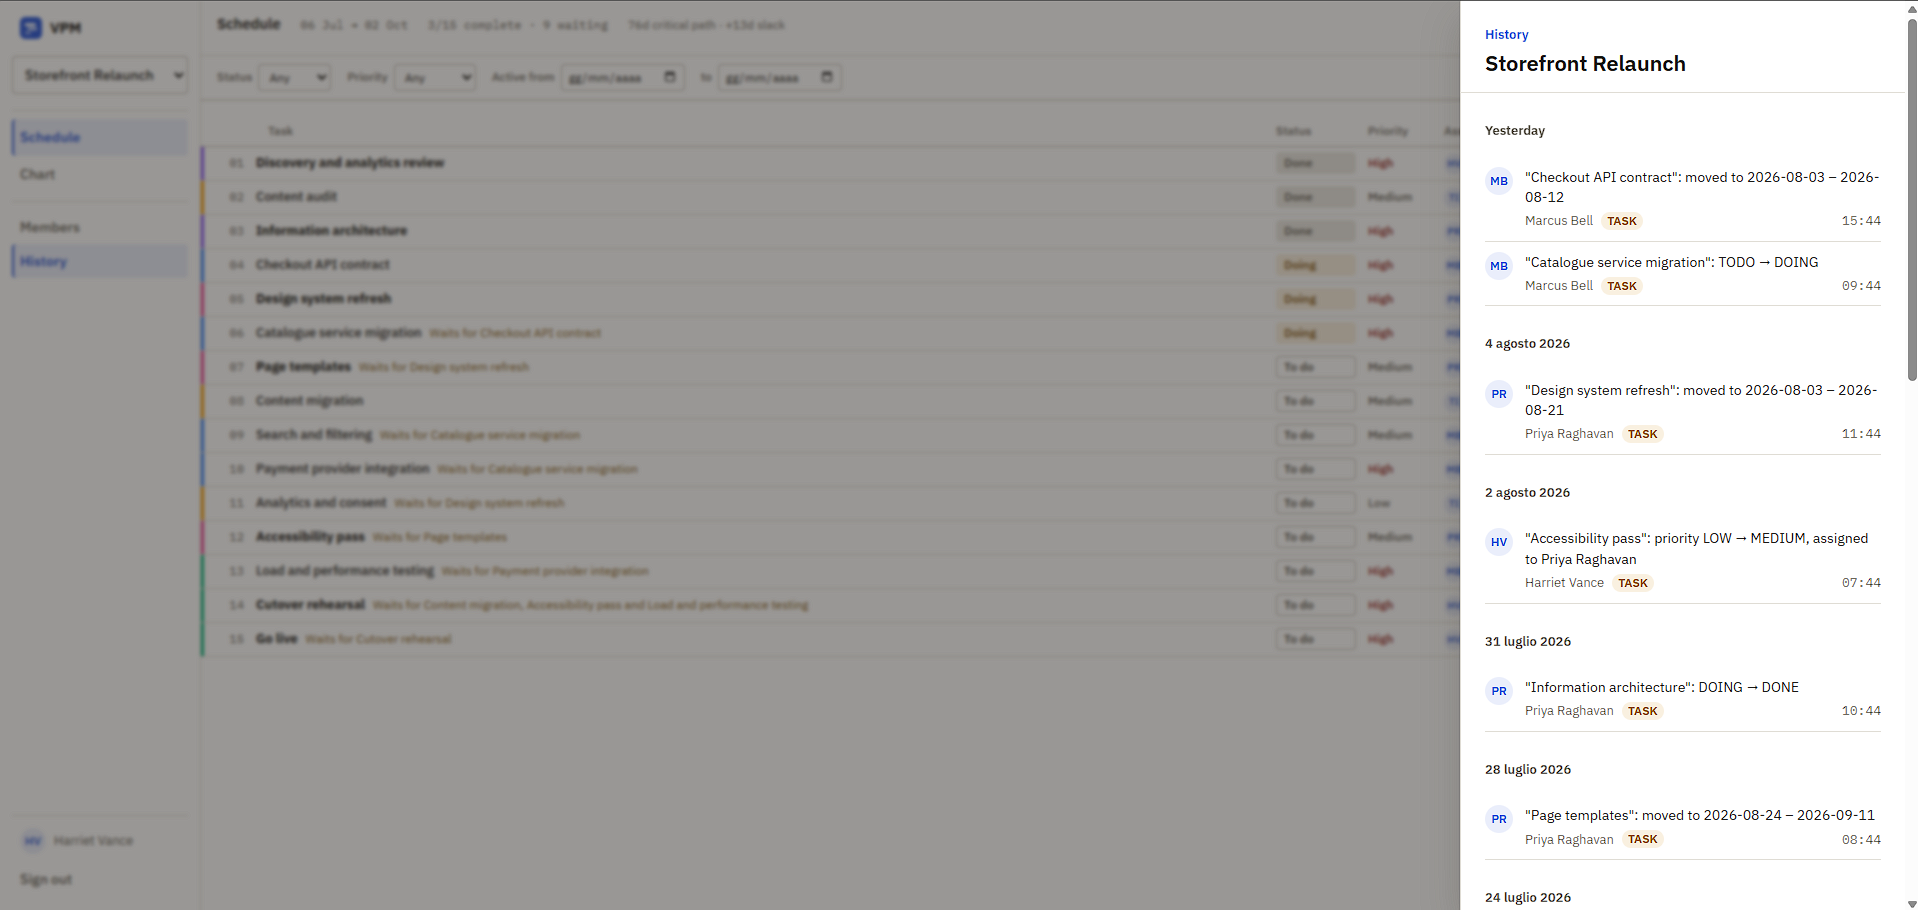
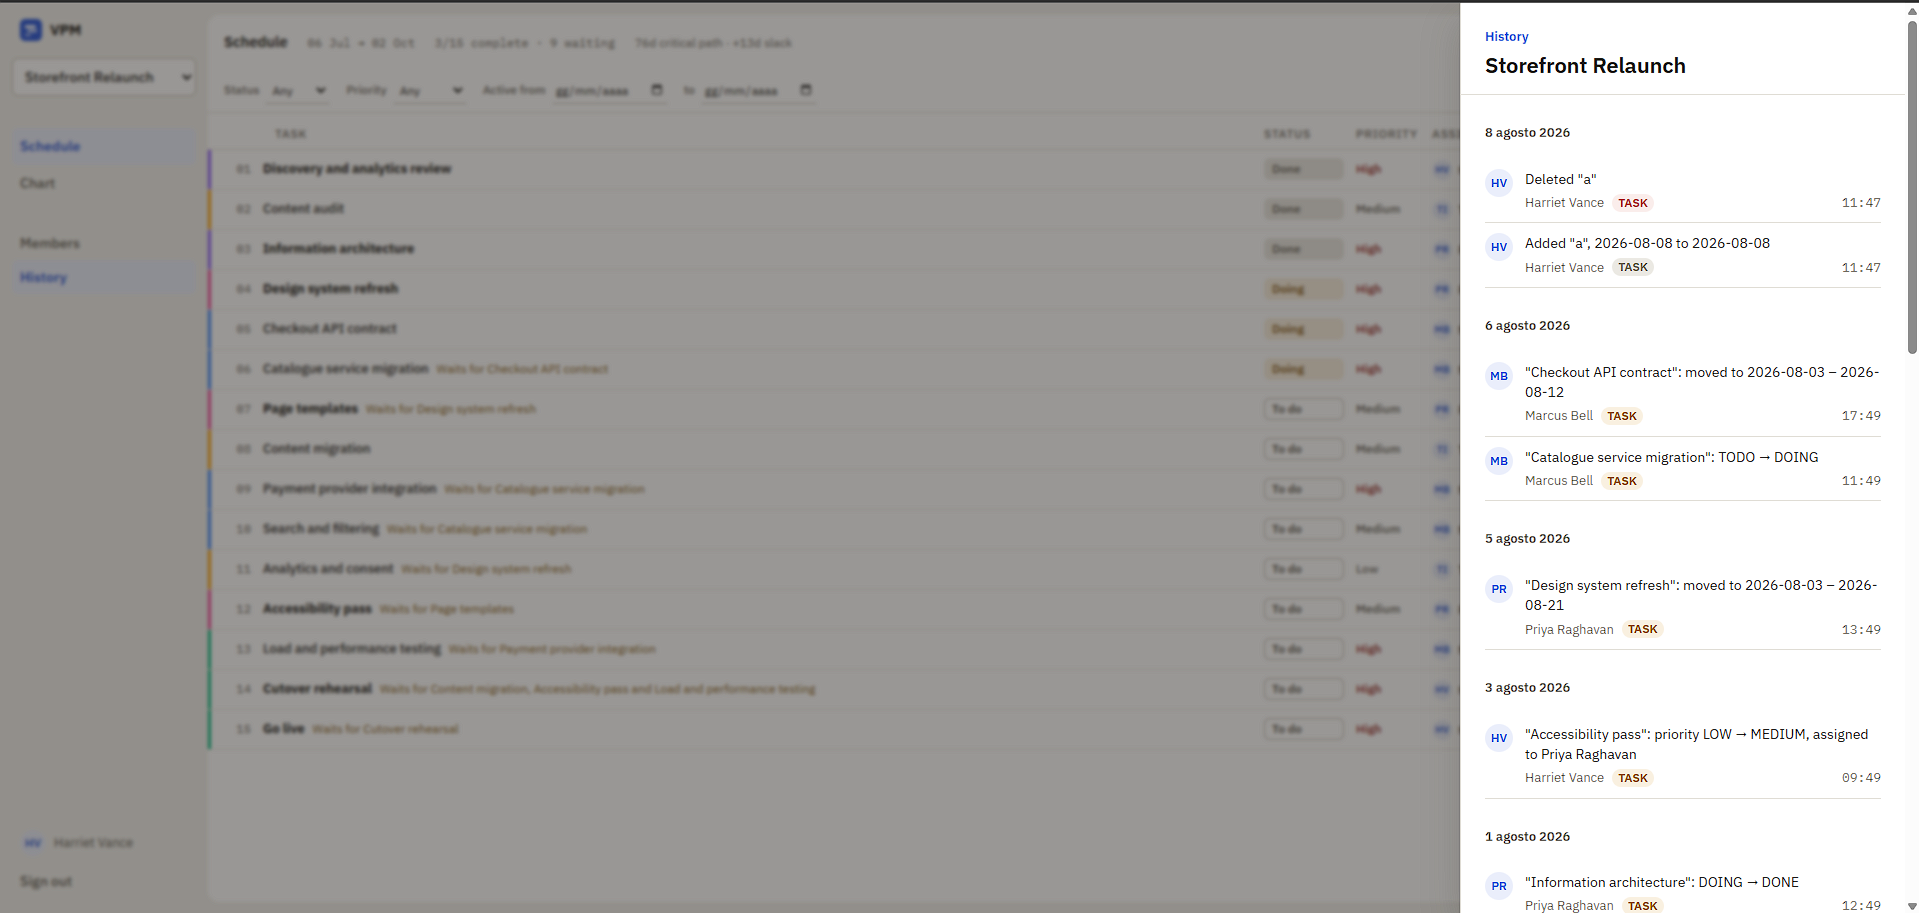
restyling

diff --git a/frontend/src/app/features/gantt/gantt-chart/gantt-chart.scss b/frontend/src/app/features/gantt/gantt-chart/gantt-chart.scss
@@ -12,7 +12,9 @@
   flex: 1;
   min-height: 0;
   background: var(--surface);
-  border-top: 1px solid var(--border);
+  // No rule on top. The filter strip below the toolbar already ends in one,
+  // and two lines a few pixels apart read as a mistake rather than as two
+  // divisions.
 
   /**
    * One element scrolls, in both directions, and three of its four cells
@@ -53,12 +55,22 @@
 
     height: var(--head-h);
     padding: 0 calc(var(--u) * 3) calc(var(--u) * 1.5);
+
+    // Set as labels rather than as small text. Sentence case at the row
+    // font's weight made the head read as a sixteenth row that happened to
+    // say "Task"; letter-spaced capitals are a different kind of thing on
+    // the page, which is what a column head is.
     font-size: var(--fs-xs);
     font-weight: 500;
+    letter-spacing: 0.06em;
+    text-transform: uppercase;
     color: var(--text-3);
     background: var(--surface);
-    border-right: 1px solid var(--border-2);
-    border-bottom: 1px solid var(--border-2);
+    // The frozen edge keeps its rule, because it marks the thing that does
+    // not move. It drops a weight: --border-2 is the weight of an input's
+    // outline, and this is a division inside one surface.
+    border-right: 1px solid var(--border);
+    border-bottom: 1px solid var(--border);
   }
 
   &__corner-right {
@@ -84,6 +96,13 @@
       // rule on its right edge divided it from a pane that is no longer there.
       left: auto;
       border-right: 0;
+
+      // Nor is there a timeline to line up with. --head-h is the height of
+      // the month row plus the day row opposite, and with those gone it was
+      // forty-six pixels of empty band standing over the first task. A head
+      // here is one line of labels, so it is as tall as one line of labels.
+      height: auto;
+      padding-top: calc(var(--u) * 3);
     }
 
     .chart__table {
@@ -106,7 +125,7 @@
 
     // Opaque, and it has to be: the bars scroll underneath it.
     background: var(--surface);
-    border-right: 1px solid var(--border-2);
+    border-right: 1px solid var(--border);
   }
 }
 
@@ -158,19 +177,37 @@
     pointer-events: none;
   }
 
+  /**
+   * The grid, with the days taken out of it.
+   *
+   * There used to be a rule between every pair of days: ninety of them on a
+   * quarter's plan, drawn at the weight of an ordinary divider, and the eye
+   * had to look past all of them to find a bar. Nothing is read off those
+   * lines. The dates are in the header, and a bar is placed by the grid
+   * whether the grid is drawn or not.
+   *
+   * Three divisions survive, in three weights, and each one is a real
+   * boundary rather than a tick: the weekend, the week and the month.
+   */
   &__col {
-    border-right: 1px solid var(--border);
-
     // Weekends are shaded because they explain the gap between a bar's length
     // and the working days inside it. Information, not decoration.
     &--weekend {
       background: rgb(41 37 30 / 5%);
     }
 
-    // A month boundary is a bigger division than a day, so it gets a heavier
-    // rule. Line weight encodes hierarchy.
+    // The week, drawn on the second weekend day's right edge rather than on
+    // the Monday's left edge. Same pixel either way, and this one is a
+    // border-right, so it cannot collide with the month's border-left when a
+    // month happens to start on a Monday.
+    &--weekend + &--weekend {
+      border-right: 1px solid var(--hairline);
+    }
+
+    // A month boundary is a bigger division than a week, so it gets the
+    // heavier rule. Line weight encodes hierarchy.
     &--month {
-      border-left: 1px solid var(--border-2);
+      border-left: 1px solid var(--border);
     }
   }
 
@@ -200,7 +237,7 @@
     top: 0;
     z-index: 3;
     height: var(--head-h);
-    border-bottom: 1px solid var(--border-2);
+    border-bottom: 1px solid var(--border);
     background: var(--surface);
   }
 
@@ -220,7 +257,7 @@
     padding-left: calc(var(--u) * 1.5);
     font-size: 13px;
     color: var(--text-2);
-    border-left: 1px solid var(--border-2);
+    border-left: 1px solid var(--border);
     border-bottom: 1px solid var(--border);
     overflow: hidden;
     white-space: nowrap;
@@ -459,9 +496,11 @@
   align-items: baseline;
   gap: calc(var(--u) * 5);
   flex: 0 0 auto;
-  padding: calc(var(--u) * 3) calc(var(--u) * 4);
+  padding: calc(var(--u) * 4) calc(var(--u) * 4) calc(var(--u) * 2);
   background: var(--surface);
-  border-bottom: 1px solid var(--border);
+  // No rule under it. The filter strip is the same band continued, and the
+  // two were divided from each other by a line that divided nothing: the
+  // title and the controls that narrow what is under it belong together.
 
   &__title {
     margin: 0;
@@ -521,16 +560,31 @@
     align-items: center;
     gap: calc(var(--u) * 1.5);
 
+    // Underlined, not boxed.
+    //
+    // Six outlined controls over a list of fifteen rows put six rectangles on
+    // the screen before the plan got any. The line under the value is enough
+    // to say it can be changed, and it leaves the boxes to the one control
+    // that makes something.
+    //
+    // The border stays declared on all four sides and is transparent on
+    // three, so focus and hover can light an edge without the control
+    // changing size.
     select,
     input {
       font-family: inherit;
       font-size: var(--fs-xs);
       color: var(--text);
-      background: var(--surface);
-      border: 1px solid var(--border-2);
-      border-radius: var(--radius-sm);
-      padding: calc(var(--u)) calc(var(--u) * 1.5);
+      background: transparent;
+      border: 1px solid transparent;
+      border-bottom-color: var(--border-2);
+      border-radius: 0;
+      padding: calc(var(--u)) calc(var(--u) * 0.5);
       cursor: pointer;
+
+      &:hover {
+        border-bottom-color: var(--text-3);
+      }
       // Date inputs claim an intrinsic width wider than a phone, and without
       // this they push the strip past the viewport.
       min-width: 0;
@@ -593,33 +647,22 @@
   }
 }
 
-// Two segmented groups now, sharing one outline: zoom, which changes how the
-// plan is drawn, and export, which takes it somewhere else. Neither segment is
-// ever lit — export has no state to show — but the shape is the same, and two
-// groups that look alike in a toolbar are read as one kind of thing.
+// Two groups: zoom, which changes how the plan is drawn, and export, which
+// takes it somewhere else. They used to share an outline and internal
+// dividers, which made two more rectangles in a band that already had six.
+//
+// What made the segments read as a group was never the box around them. It
+// was that they sit together and look alike, which they still do, and the lit
+// segment below says which one is on without needing a frame to be lit inside.
 .zoom,
 .export {
   display: flex;
-  border: 1px solid var(--border-2);
-  border-radius: var(--radius-sm);
-  // So the lit segment's fill stops at the group's corner instead of squaring
-  // it off.
-  overflow: hidden;
+  gap: 2px;
 }
 
 .zoom__step,
-.export__step {
-  border-right: 1px solid var(--border-2);
-
-  &:last-child {
-    border-right: 0;
-  }
-}
-
-// Sits outside the zoom group and carries the outline the group draws for its
-// segments.
+.export__step,
 .float-toggle {
-  border: 1px solid var(--border-2);
   border-radius: var(--radius-sm);
 }
 

diff --git a/frontend/src/app/app.scss b/frontend/src/app/app.scss
@@ -24,6 +24,10 @@
   // column followed it, and the schedule lost two thirds of the screen.
   grid-template-columns: 208px minmax(0, 1fr);
   height: 100%;
+
+  // The paper. The rail no longer paints its own background, so this is what
+  // shows behind it, and what the working area is laid on.
+  background: var(--bg);
 }
 
 /**
@@ -45,8 +49,10 @@
   // a flex item, and saying otherwise is how the width came to be a
   // coincidence rather than a rule.
   padding: calc(var(--u) * 4) calc(var(--u) * 3);
-  background: var(--surface);
-  border-right: 1px solid var(--border);
+
+  // Neither a background nor a border. The rail sits on the paper and the
+  // working area is a card laid beside it, so the edge between them is the
+  // card's own, and one line does the work two used to.
   overflow-y: auto;
 
   &__mark {
@@ -71,13 +77,14 @@
     color: var(--text);
   }
 
-  // Groups separated by a rule rather than by extra space: the distinction is
-  // between kinds of destination, and a gap alone reads as an accident.
+  // Groups separated by space rather than by a rule. The rule was there
+  // because a gap alone reads as an accident, which is true of a small gap;
+  // at this size it reads as a decision, and the rail is now the quietest
+  // surface on the screen and should not have the most lines on it.
   &__group {
     display: flex;
     flex-direction: column;
-    padding-top: calc(var(--u) * 2);
-    border-top: 1px solid var(--border);
+    padding-top: calc(var(--u) * 4);
   }
 
   &__tab {
@@ -96,11 +103,11 @@
     cursor: pointer;
     padding: calc(var(--u) * 2) calc(var(--u) * 2);
 
-    // The current view is marked by a bar in the gutter, which is the vertical
-    // equivalent of the underline a tab bar uses. Drawn in the same place
-    // whether or not it is lit, so nothing shifts sideways when it comes on.
-    border-left: 2px solid transparent;
-    padding-left: calc(var(--u) * 2 - 2px);
+    // The current view is marked by its fill and nothing else. There used to
+    // be a bar in the gutter as well, on the argument that it is the vertical
+    // equivalent of a tab bar's underline; against a rail that no longer has
+    // a background of its own, the fill alone already reads, and the bar was
+    // a second mark saying the first one's job.
     transition: color 0.15s ease, background 0.15s ease;
 
     &:hover {
@@ -110,7 +117,6 @@
 
     &.is-current {
       color: var(--accent);
-      border-left-color: var(--accent);
       background: var(--accent-soft);
       font-weight: 600;
     }
@@ -146,8 +152,7 @@
     // Pinned to the bottom of the rail: it is who you are, not where you are
     // going, and it should not sit in the path of the things that are.
     margin-top: auto;
-    padding-top: calc(var(--u) * 3);
-    border-top: 1px solid var(--border);
+    padding-top: calc(var(--u) * 4);
   }
 
   // The public demo's standing warning. Quiet on purpose: it has to be
@@ -218,7 +223,13 @@
   min-width: 0;
   min-height: 0;
   overflow: hidden;
-  background: var(--bg);
+
+  // A card on the paper, rather than the other half of a split frame. The
+  // inset is what turns the edge between rail and work from a rule into a
+  // margin, and the margin is the whole reason the screen reads quieter.
+  margin: calc(var(--u) * 3) calc(var(--u) * 3) calc(var(--u) * 3) 0;
+  background: var(--surface);
+  border-radius: var(--radius-lg);
 }
 
 /* --- the sign-in screen ------------------------------------------------- */
@@ -349,6 +360,13 @@
     display: block;
     overflow: visible;
     background: #fff;
+
+    // On screen the working area is a card inset from the paper. On paper the
+    // sheet is the paper: an inset would be a blank band down three edges of
+    // every page, and a rounded corner is a thing a printer has no reason to
+    // draw.
+    margin: 0;
+    border-radius: 0;
   }
 }
 
@@ -359,6 +377,14 @@
   .shell {
     grid-template-columns: minmax(0, 1fr);
     grid-template-rows: auto minmax(0, 1fr);
+  }
+
+  // The card goes back to being the page. An inset on a phone spends the
+  // width the schedule is already short of, and rounds a corner nobody can
+  // see because the frame it would round against is the screen.
+  .main {
+    margin: 0;
+    border-radius: 0;
   }
 
   .rail {

diff --git a/frontend/src/styles.scss b/frontend/src/styles.scss
@@ -138,6 +138,12 @@
   --border:      #dfdcd4;   /* the ordinary divider */
   --border-2:    #c4bfb4;   /* inputs, stronger separation */
 
+  /* Between rows of the same table, where a divider only has to say that one
+     row ended and the next began. --border is the right weight for an edge
+     between two different things; repeated fifteen times down a list it
+     builds a grid nobody asked for. */
+  --hairline:    #ebe8e2;
+
   /* --- text ------------------------------------------------------- */
   --text:        #1b1a17;   /* 16.4:1 on white */
   --text-2:      #57534a;   /*  7.7:1 on white — secondary prose */
@@ -226,10 +232,23 @@
   --fs-2xl:  28px;  /* the sign-in screen, and nothing else */
 
   /* --- shape and depth -------------------------------------------- */
-  /* Squarer. 10px on every surface is a consumer radius; at 6 the
-     corner still reads as deliberate without softening a grid. */
-  --radius:    6px;
-  --radius-sm: 4px;
+  /*
+    Two scales, because two different things are being rounded.
+
+    Controls stay nearly square: at 8 a button or a field has a corner
+    you notice only if you go looking for one, and a grid of dates does
+    not want softening.
+
+    The working area is not a control. It is the sheet the plan sits
+    on, and at 12 it reads as something laid on the paper rather than
+    bolted to the frame. The note that stood here argued for 6
+    everywhere, on the grounds that 10 is a consumer radius. That was
+    right about surfaces at rest and wrong about the container, which
+    is the one thing on the screen that should look set down.
+  */
+  --radius:     8px;
+  --radius-sm:  6px;
+  --radius-lg: 12px;
   --radius-pill: 999px;
 
   /*

diff --git a/frontend/src/app/features/tasks/task-card/task-card.scss b/frontend/src/app/features/tasks/task-card/task-card.scss
@@ -18,8 +18,10 @@
   background: var(--surface);
 
   // A hairline between rows, not a border around each one. Rows in a table
-  // share their edges; that is what makes them read as a table.
-  border-bottom: 1px solid var(--border);
+  // share their edges; that is what makes them read as a table. Drawn in
+  // --hairline rather than --border, because fifteen of these down a screen
+  // at the weight of an ordinary divider is a grid rather than a list.
+  border-bottom: 1px solid var(--hairline);
   transition: background 0.1s ease;
 
   &:hover {

diff --git a/frontend/src/app/features/gantt/gantt-chart/gantt-chart.ts b/frontend/src/app/features/gantt/gantt-chart/gantt-chart.ts
@@ -88,7 +88,7 @@ const MIN_TABLE_WIDTH = 168;
  * from it, and a value that disagreed with the rendered rows would draw every
  * arrow at the wrong height.
  */
-const ROW_HEIGHT = 34;
+const ROW_HEIGHT = 40;
 
 interface ChartRow {
   task: Task;
